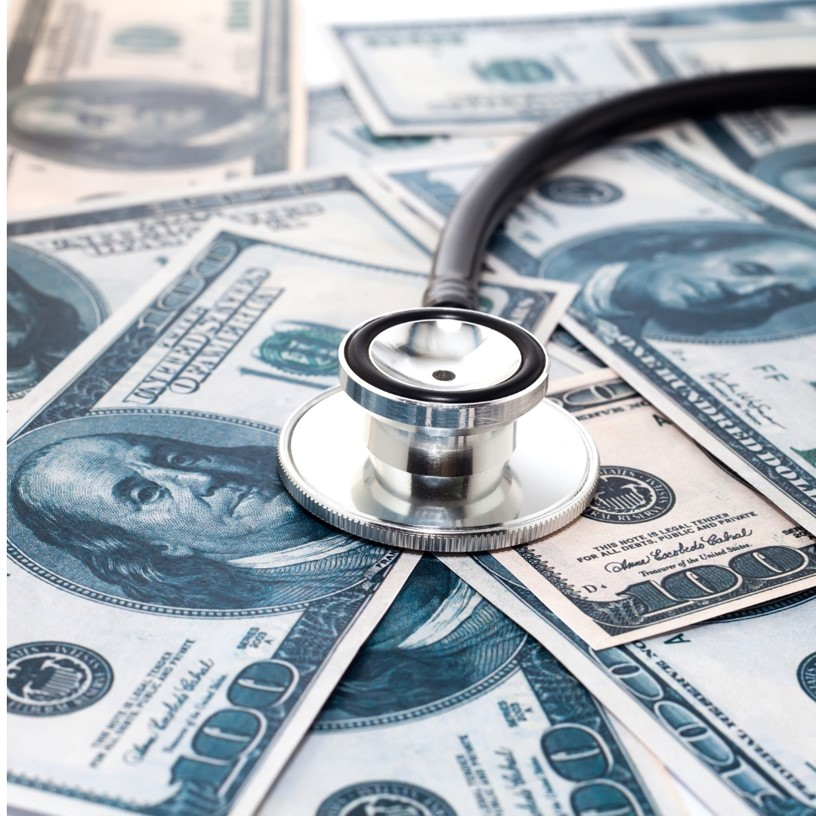
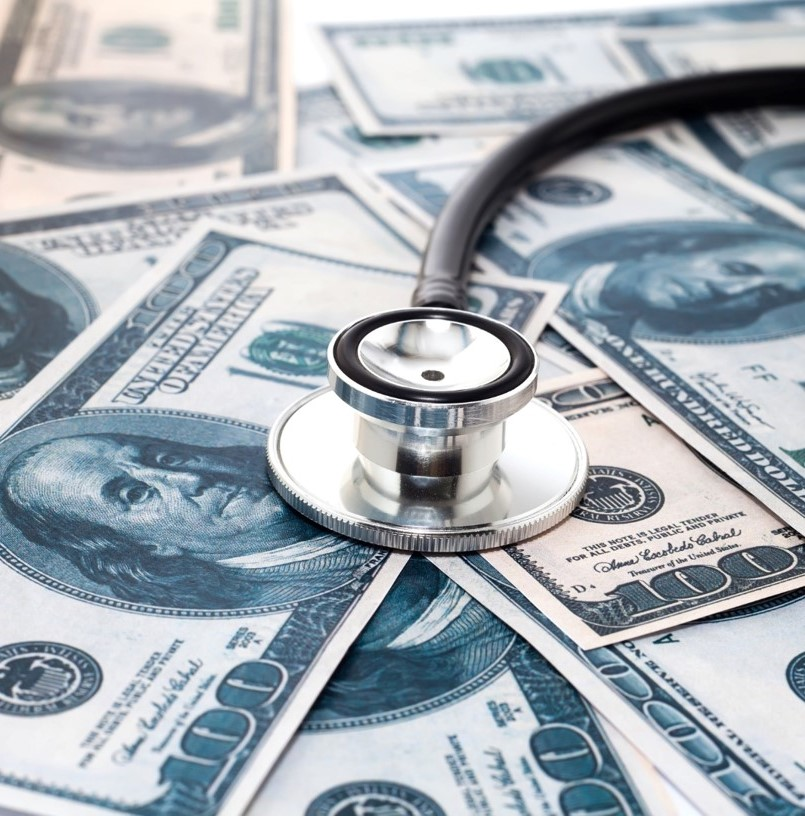
pag 9 e 10 sem responsividade

diff --git a/src/pagina10.html b/src/pagina10.html
@@ -1,0 +1,39 @@
+<!DOCTYPE html>
+<html lang="en">
+<head>
+    <meta charset="UTF-8">
+    <meta http-equiv="X-UA-Compatible" content="IE=edge">
+    <meta name="viewport" content="width=device-width, initial-scale=1.0">
+    <meta http-equiv="x-ua-compatible" content="IE=10">
+    <meta name="keywords" content="moodle, " />
+    <link rel="stylesheet" href="style/style10.css">
+    <title>Fundamentos</title>
+</head>
+<body leftmargin="0" topmargin="0" marginwidth="0" marginheight="0" onLoad="fc_iniciaSCO();" onUnload="fc_setStatus('completed');unloadPage();">
+    <div id="home">
+        <div id="esquerda">
+            <h2>Fundamentos</h2>
+            <p>Miranda Filho (2003) apresenta outro aspecto que merece destaque:
+                 a diferença entre as técnicas contábeis nas duas “esferas” da
+                  vida econômica. 
+            </p>
+            <p>As empresas privadas seguem a Lei n° 11.638, de 28 de dezembro
+                 de 2007, e a Lei n° 11.941, de 27 de maio de 2009, por outro
+                  lado, as organizações públicas são regidas pela Lei n° 4.320,
+                   de 17 de março de 1964, e posteriormente pela Lei Complementar
+                    n° 101, de 4 de maio de 2000 – Lei de Responsabilidade Fiscal. 
+            </p>
+            <p>Dessa forma, a preocupação com a contabilidade de custos na 
+                administração pública tem como marco inicial a Lei nº 4.320/1964,
+                 em vigor ainda hoje, e que estatui normas gerais de direito
+                  financeiro para a elaboração e o controle dos orçamentos e 
+                  balanços da União, dos estados, dos municípios e do Distrito
+                   Federal. 
+            </p>
+        </div>
+        <div id="direita">
+            <img src="imagens//Imagem10.jpg" alt="">
+        </div>
+    </div>
+</body>
+</html>

diff --git a/src/pagina9.html b/src/pagina9.html
@@ -1,0 +1,34 @@
+<!DOCTYPE html>
+<html lang="en">
+<head>
+    <meta charset="UTF-8">
+    <meta http-equiv="X-UA-Compatible" content="IE=edge">
+    <meta name="viewport" content="width=device-width, initial-scale=1.0">
+    <meta http-equiv="x-ua-compatible" content="IE=10">
+    <meta name="keywords" content="moodle, " />
+    <link rel="stylesheet" href="style/style9.css">
+    <title>Custos - Setor Público</title>
+</head>
+<body leftmargin="0" topmargin="0" marginwidth="0" marginheight="0" onLoad="fc_iniciaSCO();" onUnload="fc_setStatus('completed');unloadPage();">
+    <div id="home">
+        <div id="esquerda">
+            <h2>Custos - Setor Público</h2>
+            <p>Alguns aspectos ajudam a compreender o motivo pelo qual o assunto
+                 é encarado como novidade na administração pública. 
+            </p>
+            <p>Alonso (1999) atribui a não utilização das técnicas de custos pelas
+                 organizações públicas no Brasil devido ao legado do cenário 
+                 macroeconômico vivido pelo País no início dos anos 1970. O autor
+                  destaca que o cenário favorável não estimulava o governo a discutir
+                   o assunto “custos no setor público”. Tal cenário começou a ser 
+                   alterado a partir dos anos 1980 com a intensificação da crise 
+                   fiscal do Estado e a maior exposição da economia nacional à 
+                   competição internacional.
+            </p>
+        </div>
+        <div id="direita">
+            <img src="imagens/imagem9.jpg" alt="">
+        </div>
+    </div>
+</body>
+</html>

diff --git a/src/style/style10.css b/src/style/style10.css
@@ -1,0 +1,54 @@
+*{
+    margin: 0;
+    padding: 0;
+    box-sizing: border-box;
+}
+#home{
+    width: 100%;
+    height: 100vh;
+    display: flex;
+}
+#esquerda{
+    width: 50%;
+    height: 100vh;
+    display: flex;
+    justify-content: center;
+    flex-direction: column;
+    align-items: center;
+    background-color:#0096bb;
+    line-height: 25pt;
+    
+}
+#direita{
+    width: 50%;
+    height: 100vh;
+    display: flex;
+    justify-content: center;
+    align-items: left;
+    flex-direction: column;
+    
+   
+}
+h2{
+    font-size: 30px;
+    font-weight: 600;
+    font-family: 'Open Sans', sans-serif;
+    text-align: center;
+    color: white;
+    font-weight: bold;
+    padding-bottom: 1em;
+ 
+}
+p{
+    font-family: 'Open Sans', sans-serif;
+    padding-left: 2em;
+    padding-right: 2em;
+    font-size: 20px;
+    text-align: justify;
+    line-height: 25pt;
+    color: white;
+}
+#direita img{
+    width: 100%;
+    height: 100vh;
+}

diff --git a/src/style/style9.css b/src/style/style9.css
@@ -1,0 +1,54 @@
+*{
+    margin: 0;
+    padding: 0;
+    box-sizing: border-box;
+}
+#home{
+    width: 100%;
+    height: 100vh;
+    display: flex;
+}
+#esquerda{
+    width: 50%;
+    height: 100vh;
+    display: flex;
+    justify-content: center;
+    flex-direction: column;
+    align-items: center;
+    background-color:#0096bb;
+    line-height: 25pt;
+    
+    
+}
+#direita{
+    width: 50%;
+    height: 100vh;
+    display: flex;
+    justify-content: center;
+    align-items: left;
+    flex-direction: column;
+    
+   
+}
+h2{
+    font-size: 30px;
+    font-weight: 600;
+    font-family: 'Open Sans', sans-serif;
+    text-align: center;
+    color: white;
+    font-weight: bold;
+    padding-bottom: 1em;
+ 
+}
+p{
+    font-family: 'Open Sans', sans-serif;
+    padding-left: 2em;
+    padding-right: 2em;
+    font-size: 20px;
+    text-align: justify;
+    color: white;
+}
+#direita img{
+    width: 100%;
+    height: 100vh;
+}
